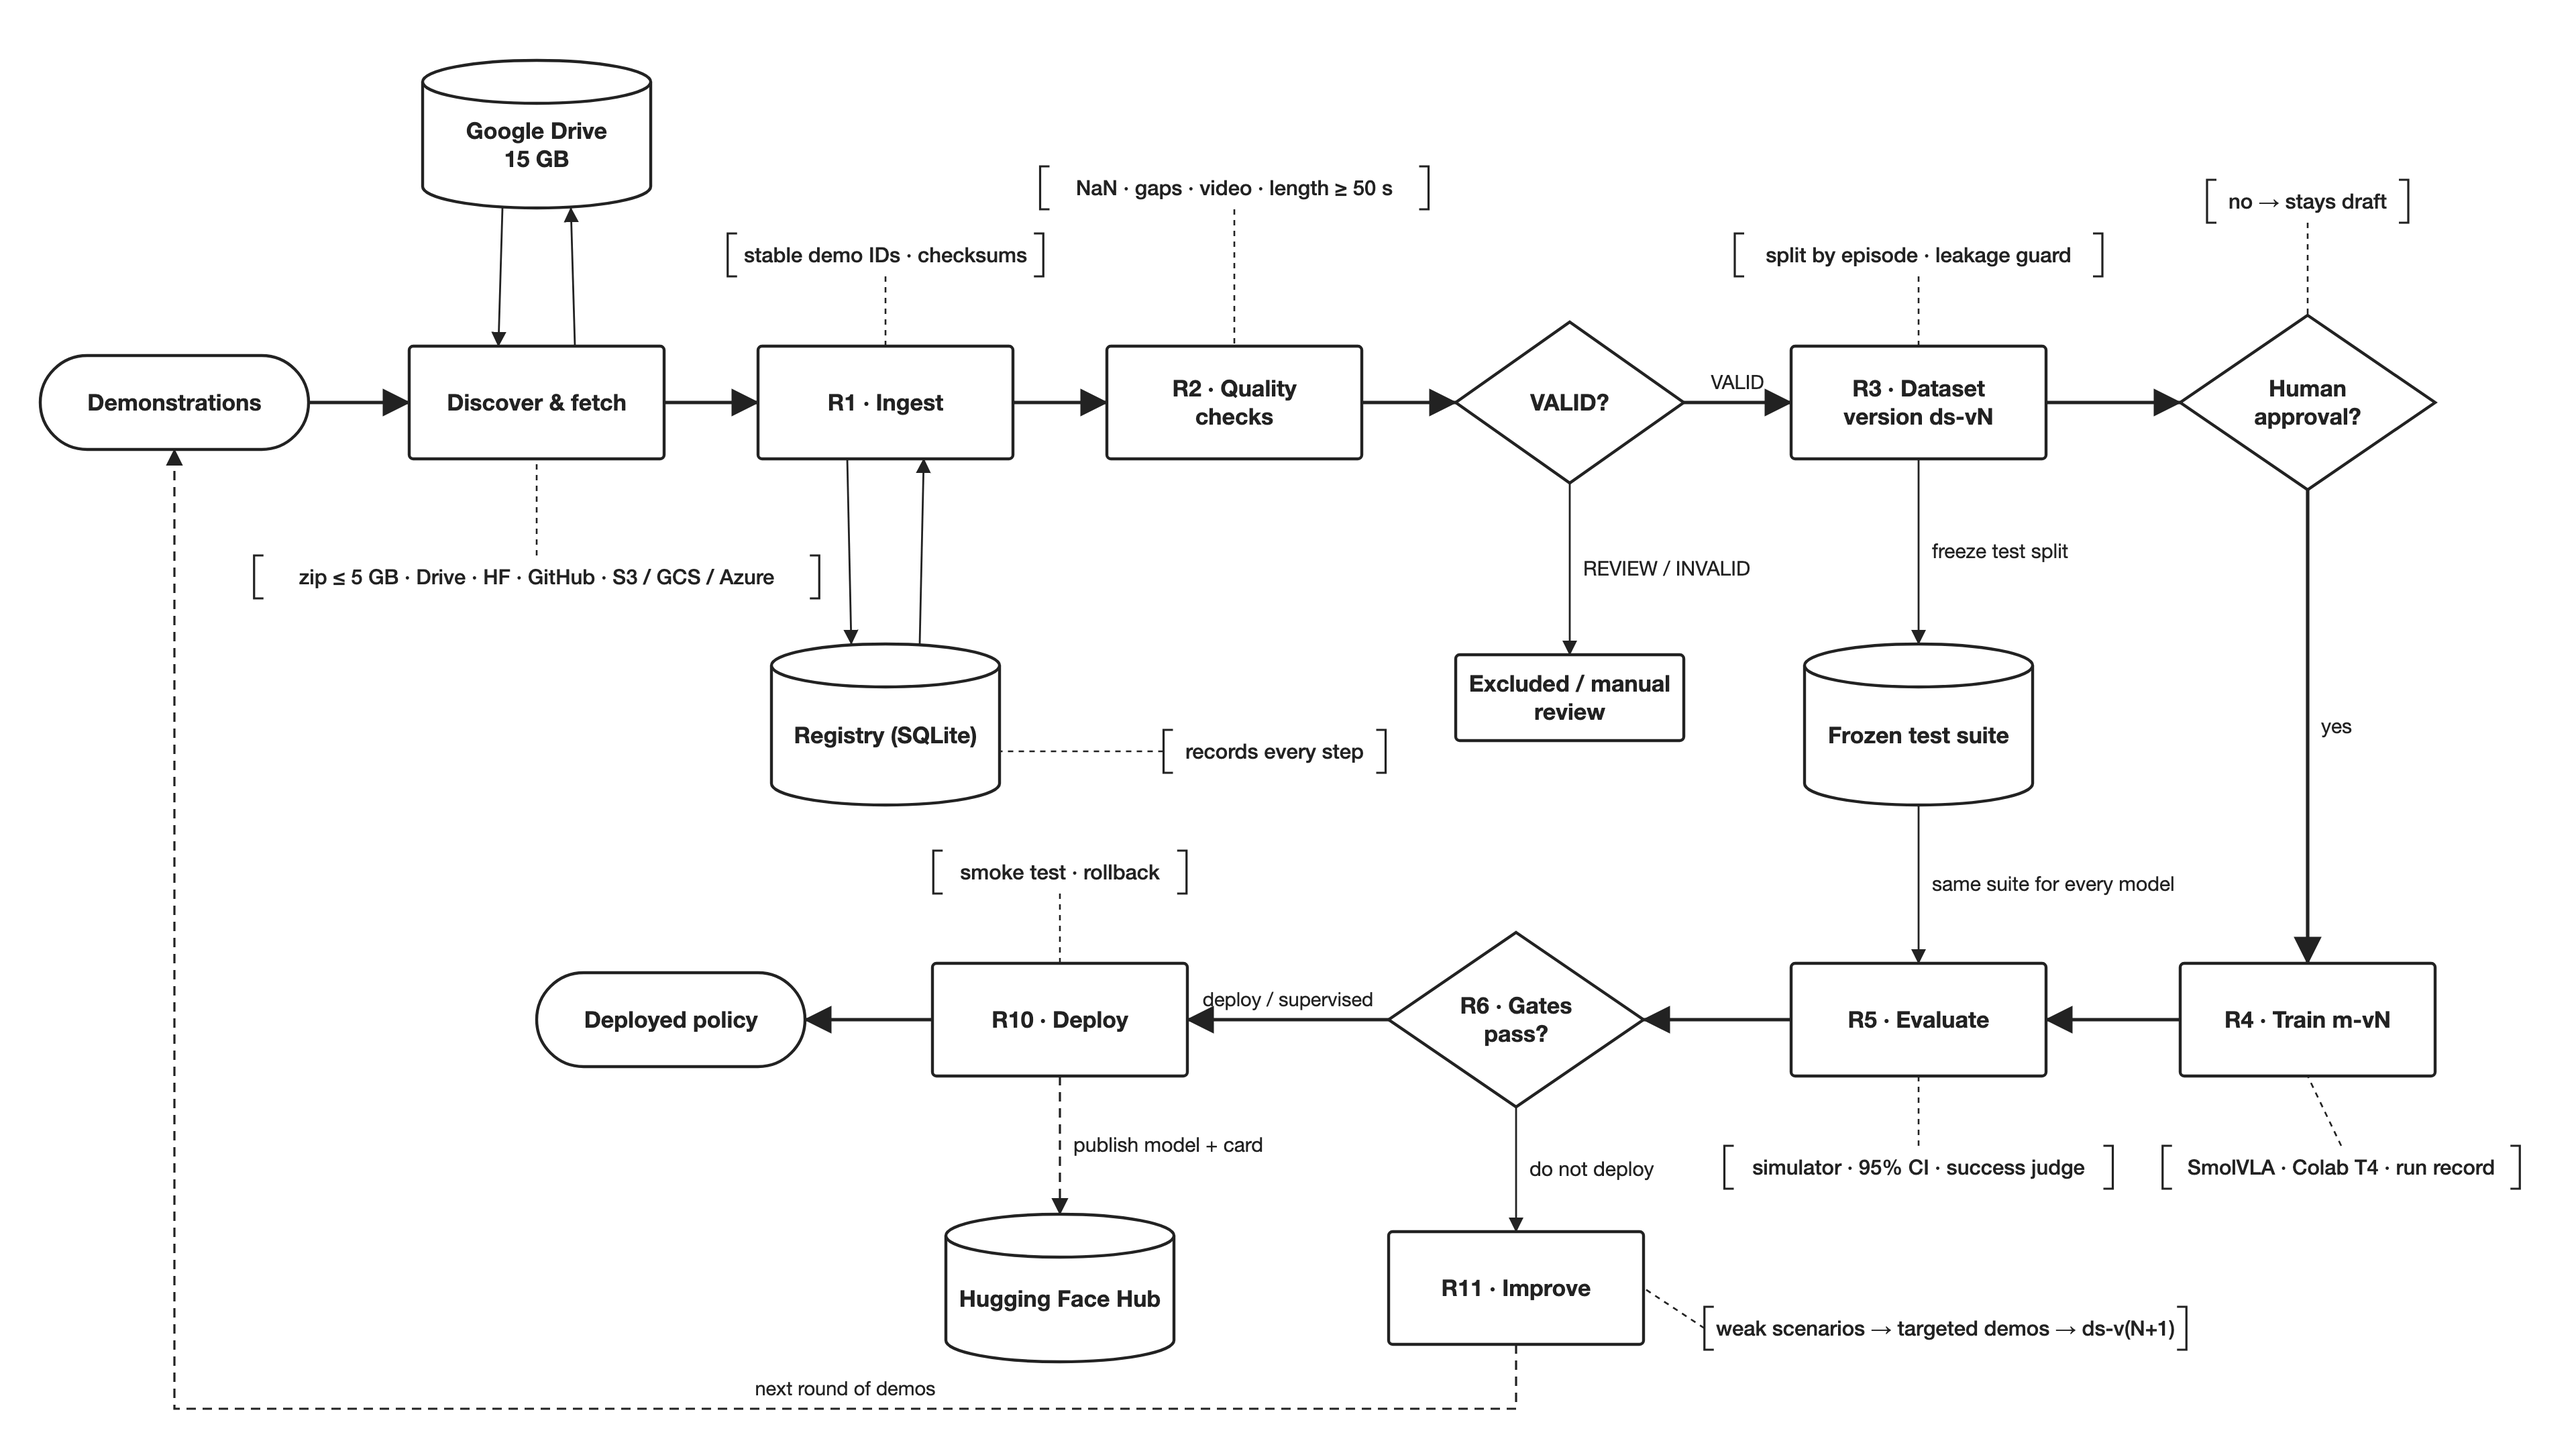
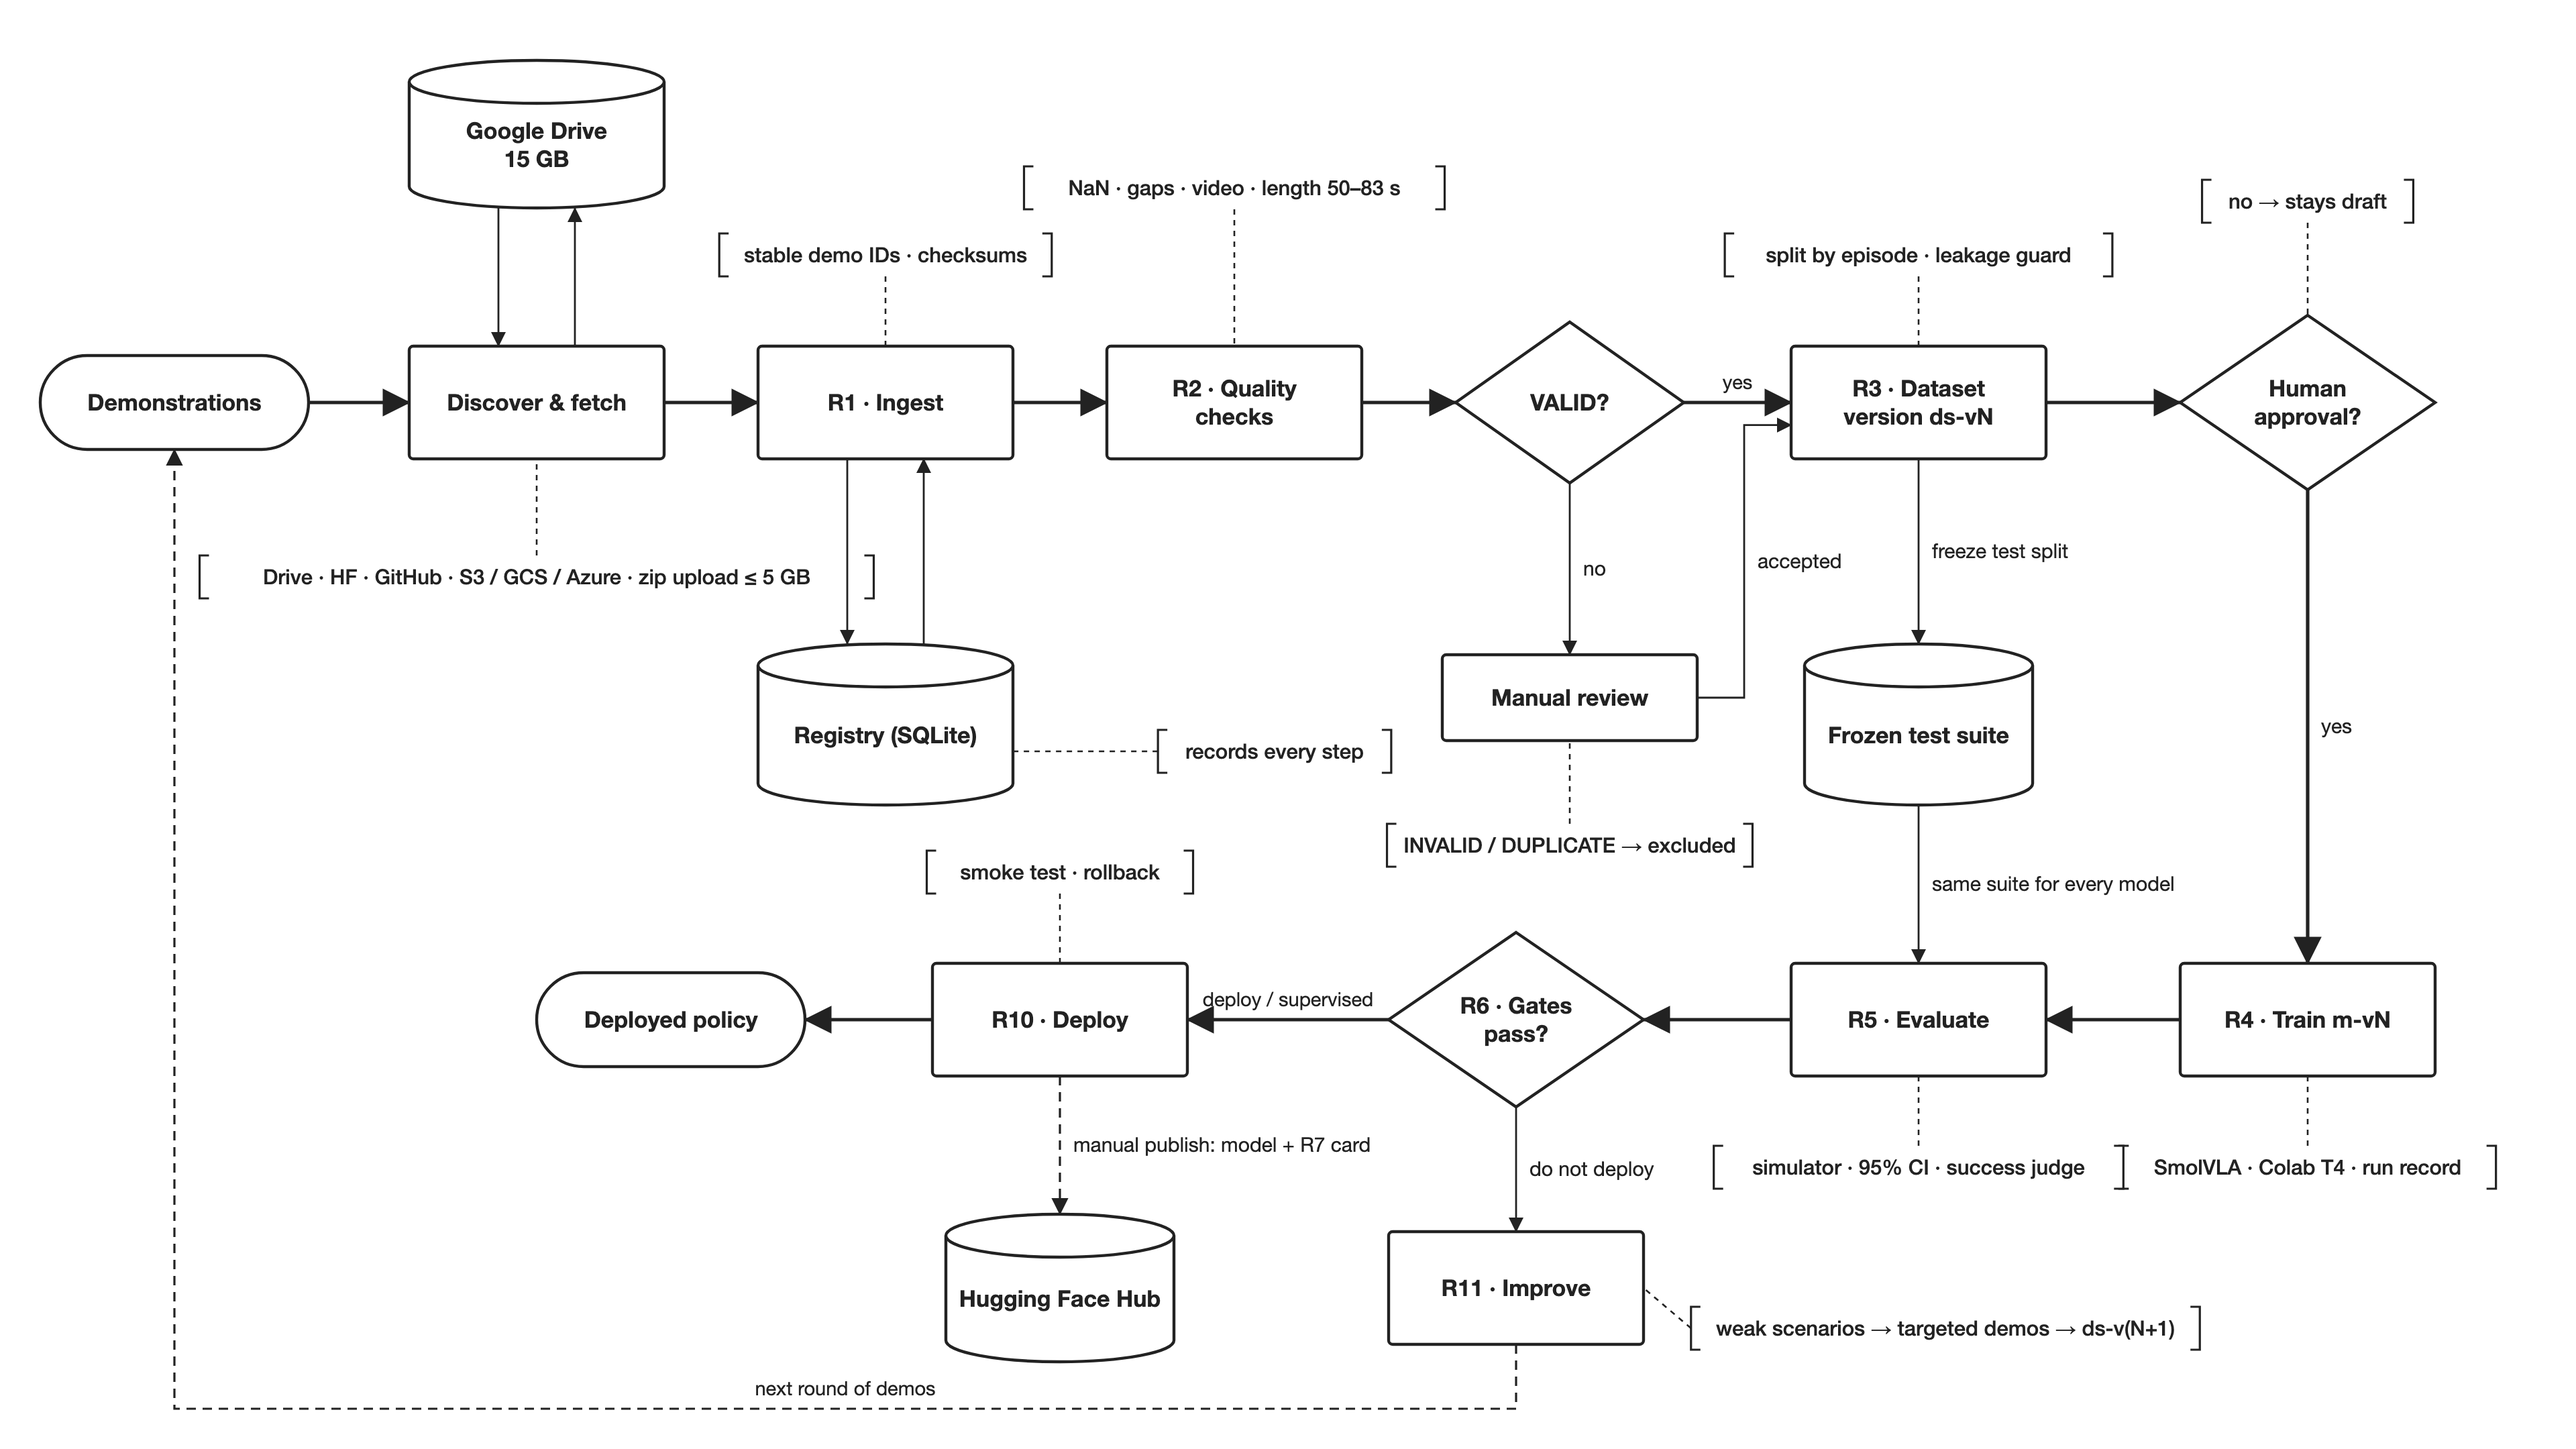
Flowchart review fixes: straight paired arrows, REVIEW can be accepted, publish is manual, full length rule, HTML-safe draw.io labels

diff --git a/docs/architecture/make_flowchart.py b/docs/architecture/make_flowchart.py
@@ -11,6 +11,7 @@
 Shapes: pill = start / end, box = step, diamond = decision, cylinder = stored data, [ bracket ] = note.
 """
 import sys
+import textwrap
 from html import escape as e
 from pathlib import Path
 
@@ -34,9 +35,9 @@ NODES = {
     "deploy":   ("box",      790, 760, 190, 84, "R10 · Deploy"),
     "out":      ("pill",     500, 760, 200, 70, "Deployed policy"),
     "improve":  ("box",     1130, 960, 190, 84, "R11 · Improve"),
-    "excluded": ("box",     1170, 520, 170, 64, "Excluded / manual review"),
-    "drive":    ("cylinder", 400, 100, 170, 110, "Google Drive\n15 GB"),
-    "registry": ("cylinder", 660, 540, 170, 120, "Registry (SQLite)"),
+    "excluded": ("box",     1170, 520, 190, 64, "Manual review"),
+    "drive":    ("cylinder", 400, 100, 190, 110, "Google Drive\n15 GB"),
+    "registry": ("cylinder", 660, 540, 190, 120, "Registry (SQLite)"),
     "suite":    ("cylinder", 1430, 540, 170, 120, "Frozen test suite"),
     "hub":      ("cylinder", 790, 960, 170, 110, "Hugging Face Hub"),
 }
@@ -47,8 +48,9 @@ EDGES = [
     ("fetch", "right", "ingest", "left", "", "main", []),
     ("ingest", "right", "qc", "left", "", "main", []),
     ("qc", "right", "valid", "left", "", "main", []),
-    ("valid", "right", "version", "left", "VALID", "main", []),
-    ("valid", "bottom", "excluded", "top", "REVIEW / INVALID", "thin", []),
+    ("valid", "right", "version", "left", "yes", "main", []),
+    ("valid", "bottom", "excluded", "top", "no", "thin", []),
+    ("excluded", "right", "version", "left@0.7", "accepted", "thin", [(1300, 520), (1300, 316.8)]),
     ("version", "right", "approved", "left", "", "main", []),
     ("approved", "bottom", "train", "top", "yes", "main", []),
     ("train", "left", "eval", "right", "", "main", []),
@@ -63,18 +65,19 @@ EDGES = [
     ("registry", "top@0.65", "ingest", "bottom@0.65", "", "thin", []),
     ("version", "bottom", "suite", "top", "freeze test split", "thin", []),
     ("suite", "bottom", "eval", "top", "same suite for every model", "thin", []),
-    ("deploy", "bottom", "hub", "top", "publish model + card", "dashed", []),
+    ("deploy", "bottom", "hub", "top", "manual publish: model + R7 card", "dashed", []),
 ]
 
 # (text, centre x, centre y, leader to (x, y) or None)
 NOTES = [
-    ("zip ≤ 5 GB · Drive · HF · GitHub · S3 / GCS / Azure", 400, 430, (400, 342)),
+    ("Drive · HF · GitHub · S3 / GCS / Azure · zip upload ≤ 5 GB", 400, 430, (400, 342)),
     ("stable demo IDs · checksums", 660, 190, (660, 258)),
-    ("NaN · gaps · video · length ≥ 50 s", 920, 140, (920, 258)),
+    ("NaN · gaps · video · length 50–83 s", 920, 140, (920, 258)),
     ("split by episode · leakage guard", 1430, 190, (1430, 258)),
     ("no → stays draft", 1720, 150, (1720, 235)),
-    ("records every step", 950, 560, (745, 560)),
-    ("SmolVLA · Colab T4 · run record", 1745, 870, (1720, 802)),
+    ("records every step", 950, 560, (755, 560)),
+    ("INVALID / DUPLICATE → excluded", 1170, 630, (1170, 552)),
+    ("SmolVLA · Colab T4 · run record", 1720, 870, (1720, 802)),
     ("simulator · 95% CI · success judge", 1430, 870, (1430, 802)),
     ("smoke test · rollback", 790, 650, (790, 718)),
     ("weak scenarios → targeted demos → ds-v(N+1)", 1450, 990, (1225, 960)),
@@ -91,7 +94,7 @@ def port(nid, spec):
 
 
 def text_w(s, size):
-    return len(s) * size * 0.5
+    return len(s) * size * 0.53
 
 
 # ---------- SVG ----------
@@ -154,16 +157,7 @@ def svg():
 
 
 def wrap(s, n):
-    if "\n" in s:
-        return [ln for part in s.split("\n") for ln in wrap(part, n)]
-    words, lines, cur = s.split(), [], ""
-    for wd in words:
-        if cur and len(cur) + 1 + len(wd) > n:
-            lines.append(cur)
-            cur = wd
-        else:
-            cur = f"{cur} {wd}".strip()
-    return lines + [cur]
+    return [ln for part in s.split("\n") for ln in textwrap.wrap(part, n)]
 
 
 # ---------- draw.io ----------
@@ -182,22 +176,27 @@ EDGE_STYLE = {
 BASE = "fillColor=#ffffff;strokeColor=#222222;fontColor=#222222;fontFamily=Helvetica;"
 
 
+def html_value(text):
+    """draw.io html=1 labels are HTML inside an XML attribute: escape for HTML, then for XML."""
+    return e(e(text).replace("\n", "<br>"))
+
+
 def drawio():
     cells = ['<mxCell id="0"/>', '<mxCell id="1" parent="0"/>']
     for nid, (kind, cx, cy, w, h, label) in NODES.items():
-        cells.append(f'<mxCell id="{nid}" value="{e(label).replace(chr(10), "&lt;br&gt;")}" style="{STYLE[kind]}{BASE}" vertex="1" parent="1">'
+        cells.append(f'<mxCell id="{nid}" value="{html_value(label)}" style="{STYLE[kind]}{BASE}" vertex="1" parent="1">'
                      f'<mxGeometry x="{cx - w / 2}" y="{cy - h / 2}" width="{w}" height="{h}" as="geometry"/></mxCell>')
     for i, (a, sa, b, sb, label, style, via) in enumerate(EDGES):
         *_, ex, ey = port(a, sa)
         *_, nx, ny = port(b, sb)
         pts = "".join(f'<mxPoint x="{x}" y="{y}"/>' for x, y in via)
-        cells.append(f'<mxCell id="e{i}" value="{e(label)}" style="edgeStyle=orthogonalEdgeStyle;rounded=0;html=1;'
+        cells.append(f'<mxCell id="e{i}" value="{html_value(label)}" style="edgeStyle=orthogonalEdgeStyle;rounded=0;html=1;'
                      f'exitX={ex};exitY={ey};entryX={nx};entryY={ny};{EDGE_STYLE[style]}{BASE}fontSize=14;'
                      f'labelBackgroundColor=#ffffff;" edge="1" parent="1" source="{a}" target="{b}">'
                      f'<mxGeometry relative="1" as="geometry"><Array as="points">{pts}</Array></mxGeometry></mxCell>')
     for i, (text, cx, cy, lead) in enumerate(NOTES):
         tw = text_w(text, 15.5) + 28
-        cells.append(f'<mxCell id="n{i}" value="{e(text)}" style="shape=partialRectangle;top=0;bottom=0;'
+        cells.append(f'<mxCell id="n{i}" value="{html_value(text)}" style="shape=partialRectangle;top=0;bottom=0;'
                      f'whiteSpace=wrap;html=1;strokeWidth=1.5;fontSize=14;{BASE}" vertex="1" parent="1">'
                      f'<mxGeometry x="{cx - tw / 2}" y="{cy - 16}" width="{tw}" height="32" as="geometry"/></mxCell>')
         if lead:

diff --git a/README.md b/README.md
@@ -88,7 +88,8 @@ updates that file.
 
 ## Docs
 
-- [`docs/architecture/pipeline_architecture.png`](docs/architecture/pipeline_architecture.png) — pipeline architecture diagram for slides and black-and-white flowchart [`pipeline_flowchart.png`](docs/architecture/pipeline_flowchart.png) (editable `pipeline_flowchart.drawio`; SVGs and the scripts in the same folder)
+- [`docs/architecture/pipeline_architecture.png`](docs/architecture/pipeline_architecture.png) — colour architecture diagram for slides (SVG and `make_diagram.py` in the same folder)
+- [`docs/architecture/pipeline_flowchart.png`](docs/architecture/pipeline_flowchart.png) — black-and-white flowchart; edit `pipeline_flowchart.drawio` in draw.io (SVG and `make_flowchart.py` in the same folder)
 - [`docs/plan.md`](docs/plan.md) — goal, scope, model strategy, day plan, GPU schedule
 - [`docs/roles.md`](docs/roles.md) — who owns what
 - [`docs/interfaces.md`](docs/interfaces.md) — data contracts
